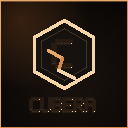
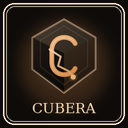
Polish in-game Cubera title branding
Replace the chunky VIA CUBERA banner with a classic Java Edition
style * Cubera * subtitle, sharper pack icon from the brand SVG,
and lighter Minecraft-flavored splashes.

diff --git a/scripts/generate-branding-assets.py b/scripts/generate-branding-assets.py
@@ -1,0 +1,226 @@
+#!/usr/bin/env python3
+"""Generate polished Cubera in-game branding textures."""
+
+from __future__ import annotations
+
+import io
+import math
+import os
+from pathlib import Path
+
+import cairosvg
+from PIL import Image, ImageDraw, ImageFilter, ImageFont, ImageOps
+
+ROOT = Path(__file__).resolve().parents[1]
+OUT = ROOT / "src-tauri" / "branding"
+SVG = ROOT / "public" / "cubera.svg"
+
+
+def find_font(size: int, italic: bool = False) -> ImageFont.FreeTypeFont:
+    candidates = [
+        "/usr/share/fonts/truetype/liberation/LiberationSerif-Italic.ttf" if italic else None,
+        "/usr/share/fonts/truetype/noto/NotoSerif-Italic.ttf" if italic else None,
+        "/usr/share/fonts/truetype/macos/Inter-Italic.ttf" if italic else None,
+        "/usr/share/fonts/truetype/liberation/LiberationSerif-Regular.ttf" if not italic else None,
+        "/usr/share/fonts/truetype/dejavu/DejaVuSerif-Bold.ttf" if not italic else None,
+        "/usr/share/fonts/truetype/dejavu/DejaVuSerif.ttf" if not italic else None,
+        "/usr/share/fonts/truetype/macos/Inter-SemiBold.ttf" if not italic else None,
+        "/usr/share/fonts/truetype/dejavu/DejaVuSans.ttf",
+    ]
+    for path in candidates:
+        if path and os.path.exists(path):
+            return ImageFont.truetype(path, size=size)
+    return ImageFont.load_default()
+
+
+def render_svg(size: int) -> Image.Image:
+    png = cairosvg.svg2png(url=str(SVG), output_width=size, output_height=size)
+    return Image.open(io.BytesIO(png)).convert("RGBA")
+
+
+def make_edition() -> Image.Image:
+    """Classic Minecraft '* Java Edition *' energy — soft gold italic subtitle."""
+    # High-res source; MC scales GUI textures cleanly from multiples of 128x16
+    w, h = 512, 64
+    img = Image.new("RGBA", (w, h), (0, 0, 0, 0))
+    draw = ImageDraw.Draw(img)
+    font = find_font(42, italic=True)
+    text = "* Cubera *"
+
+    bbox = draw.textbbox((0, 0), text, font=font)
+    tw, th = bbox[2] - bbox[0], bbox[3] - bbox[1]
+    x = (w - tw) // 2 - bbox[0]
+    y = (h - th) // 2 - bbox[1] - 2
+
+    # Soft drop shadow like vanilla GUI text
+    for ox, oy in ((2, 2), (3, 3)):
+        draw.text((x + ox, y + oy), text, font=font, fill=(35, 24, 10, 160))
+
+    # Warm cream/gold fill — close to vanilla edition yellow
+    draw.text((x, y), text, font=font, fill=(255, 236, 150, 255))
+
+    # Very subtle top highlight for depth
+    highlight = Image.new("RGBA", (w, h), (0, 0, 0, 0))
+    hd = ImageDraw.Draw(highlight)
+    hd.text((x, y - 1), text, font=font, fill=(255, 255, 220, 70))
+    img = Image.alpha_composite(img, highlight)
+
+    # Tiny shear for classic italic subtitle feel (font already italic; light extra)
+    img = img.transform(
+        (w, h),
+        Image.AFFINE,
+        (1, -0.08, 10, 0, 1, 0),
+        resample=Image.BICUBIC,
+        fillcolor=(0, 0, 0, 0),
+    )
+    return img
+
+
+def make_pack() -> Image.Image:
+    """Resource pack icon: mineral plate + copper hex monogram from brand SVG."""
+    size = 256
+    img = Image.new("RGBA", (size, size), (14, 11, 9, 255))
+    draw = ImageDraw.Draw(img)
+
+    # Radial copper glow
+    glow = Image.new("RGBA", (size, size), (0, 0, 0, 0))
+    gd = ImageDraw.Draw(glow)
+    gd.ellipse((28, 28, size - 28, size - 28), fill=(212, 137, 74, 55))
+    glow = glow.filter(ImageFilter.GaussianBlur(18))
+    img = Image.alpha_composite(img, glow)
+    draw = ImageDraw.Draw(img)
+
+    # Beveled frame
+    draw.rounded_rectangle((6, 6, size - 7, size - 7), radius=22, outline=(232, 168, 106, 90), width=3)
+    draw.rounded_rectangle((12, 12, size - 13, size - 13), radius=18, outline=(90, 60, 35, 120), width=2)
+
+    # Brand mark
+    mark = render_svg(168)
+    mx = (size - mark.width) // 2
+    my = 28
+    img.paste(mark, (mx, my), mark)
+
+    # Wordmark
+    draw = ImageDraw.Draw(img)
+    font = find_font(28, italic=False)
+    text = "CUBERA"
+    bbox = draw.textbbox((0, 0), text, font=font)
+    tw = bbox[2] - bbox[0]
+    x = (size - tw) // 2 - bbox[0]
+    y = 200
+    draw.text((x + 1, y + 1), text, font=font, fill=(20, 14, 8, 200))
+    draw.text((x, y), text, font=font, fill=(245, 212, 168, 245))
+
+    # Downscale to 128 for pack icon slot with high quality
+    return img.resize((128, 128), Image.Resampling.LANCZOS)
+
+
+def make_minceraft() -> Image.Image:
+    """Rare title easter-egg — clean copper wordmark, not a second Minecraft logo."""
+    w, h = 512, 128
+    img = Image.new("RGBA", (w, h), (0, 0, 0, 0))
+
+    mark = render_svg(96)
+    img.paste(mark, (28, (h - mark.height) // 2), mark)
+
+    draw = ImageDraw.Draw(img)
+    font = find_font(64, italic=False)
+    text = "CUBERA"
+    x, y = 140, 28
+    # Heavy outline like MC title weight
+    for ox in range(-3, 4):
+        for oy in range(-3, 4):
+            if ox or oy:
+                draw.text((x + ox, y + oy), text, font=font, fill=(18, 12, 8, 230))
+    draw.text((x, y), text, font=font, fill=(255, 244, 220, 255))
+
+    # Copper underline accent
+    draw.rounded_rectangle((144, 100, 470, 106), radius=3, fill=(212, 137, 74, 200))
+    return img
+
+
+def write_splashes() -> None:
+    splashes = """\
+Also try underground!
+As seen on title screens!
+100% pure copper!
+Hexagonally yours!
+Now with more ore!
+Technically a launcher!
+Your mineral workbench!
+Splashes, but classier!
+Finally, a polished edge!
+Watch those caves!
+Built for Apple Silicon!
+Not a creeper!
+Shine bright like copper!
+May contain diamonds!
+Click me again!
+Open source, closed caves!
+One more block!
+Portal-ready!
+Crafted, not generated!
+No microtransactions here!
+""".strip()
+    (OUT / "splashes.txt").write_text(splashes + "\n", encoding="utf-8")
+
+
+def preview(edition: Image.Image, pack: Image.Image) -> None:
+    """Composite a dark cave-like preview of the title treatment."""
+    canvas = Image.new("RGBA", (960, 420), (18, 16, 14, 255))
+    # soft vignette
+    vig = Image.new("RGBA", canvas.size, (0, 0, 0, 0))
+    vd = ImageDraw.Draw(vig)
+    vd.ellipse((-80, -40, 1040, 520), fill=(80, 55, 30, 55))
+    vig = vig.filter(ImageFilter.GaussianBlur(60))
+    canvas = Image.alpha_composite(canvas, vig)
+
+    draw = ImageDraw.Draw(canvas)
+    # Fake Minecraft wordmark (stone-ish) so preview shows hierarchy
+    title_font = find_font(72, italic=False)
+    title = "MINECRAFT"
+    bbox = draw.textbbox((0, 0), title, font=title_font)
+    tw = bbox[2] - bbox[0]
+    tx = (canvas.width - tw) // 2 - bbox[0]
+    ty = 110
+    for ox in range(-4, 5):
+        for oy in range(-4, 5):
+            if abs(ox) + abs(oy) > 0:
+                draw.text((tx + ox, ty + oy), title, font=title_font, fill=(10, 8, 6, 255))
+    draw.text((tx, ty), title, font=title_font, fill=(180, 180, 180, 255))
+
+    ed = edition.resize((400, 50), Image.Resampling.LANCZOS)
+    canvas.paste(ed, ((canvas.width - ed.width) // 2, 210), ed)
+
+    # pack icon corner
+    p = pack.resize((96, 96), Image.Resampling.NEAREST)
+    canvas.paste(p, (40, 40), p)
+
+    # splash sample
+    splash_font = find_font(28, italic=True)
+    splash = "Also try underground!"
+    draw.text((620, 150), splash, font=splash_font, fill=(255, 255, 80, 255))
+
+    out = Path("/opt/cursor/artifacts/cubera-ingame-branding-preview.png")
+    out.parent.mkdir(parents=True, exist_ok=True)
+    canvas.save(out)
+    print("preview", out)
+
+
+def main() -> None:
+    OUT.mkdir(parents=True, exist_ok=True)
+    edition = make_edition()
+    pack = make_pack()
+    egg = make_minceraft()
+    edition.save(OUT / "edition.png")
+    pack.save(OUT / "pack.png")
+    egg.save(OUT / "title_minceraft.png")
+    write_splashes()
+    preview(edition, pack)
+    for name in ("edition.png", "pack.png", "title_minceraft.png", "splashes.txt"):
+        p = OUT / name
+        print(f"{name}: {p.stat().st_size} bytes")
+
+
+if __name__ == "__main__":
+    main()

diff --git a/src-tauri/src/launch.rs b/src-tauri/src/launch.rs
@@ -218,7 +218,7 @@ pub async fn launch_game(app: AppHandle, instance_id: &str) -> Result<String, St
         format!("-Xms{}M", (memory / 4).max(512)),
         format!("-Djava.library.path={}", natives.display()),
         "-Dminecraft.launcher.brand=Cubera".into(),
-        "-Dminecraft.launcher.version=0.2.2".into(),
+        "-Dminecraft.launcher.version=0.2.3".into(),
     ];
 
     let extra_jvm = meta
@@ -590,7 +590,7 @@ fn replace_tokens(s: &str, ctx: &ArgContext<'_>) -> String {
         .replace("${version_type}", "Cubera")
         .replace("${natives_directory}", &ctx.natives.display().to_string())
         .replace("${launcher_name}", "Cubera")
-        .replace("${launcher_version}", "0.2.2")
+        .replace("${launcher_version}", "0.2.3")
         .replace("${classpath}", ctx.classpath)
         .replace(
             "${library_directory}",

diff --git a/src-tauri/src/branding.rs b/src-tauri/src/branding.rs
@@ -5,7 +5,7 @@ use std::path::Path;
 const PACK_NAME: &str = "Cubera-Branding";
 const PACK_FILE: &str = "Cubera-Branding.zip";
 /// Bump when textures/splashes change so existing installs refresh.
-const PACK_REVISION: &str = "2";
+const PACK_REVISION: &str = "3";
 
 pub fn install_ingame_branding(game_dir: &Path) -> Result<(), String> {
     let packs_dir = game_dir.join("resourcepacks");
@@ -33,7 +33,7 @@ fn write_branding_pack(zip_path: &Path) -> Result<(), String> {
   "pack": {
     "pack_format": 34,
     "supported_formats": { "min_inclusive": 15, "max_inclusive": 64 },
-    "description": "§6Cubera §8· §7mineral title branding"
+    "description": "§6Cubera §8· §7title subtitle & splashes"
   }
 }
 "#;
